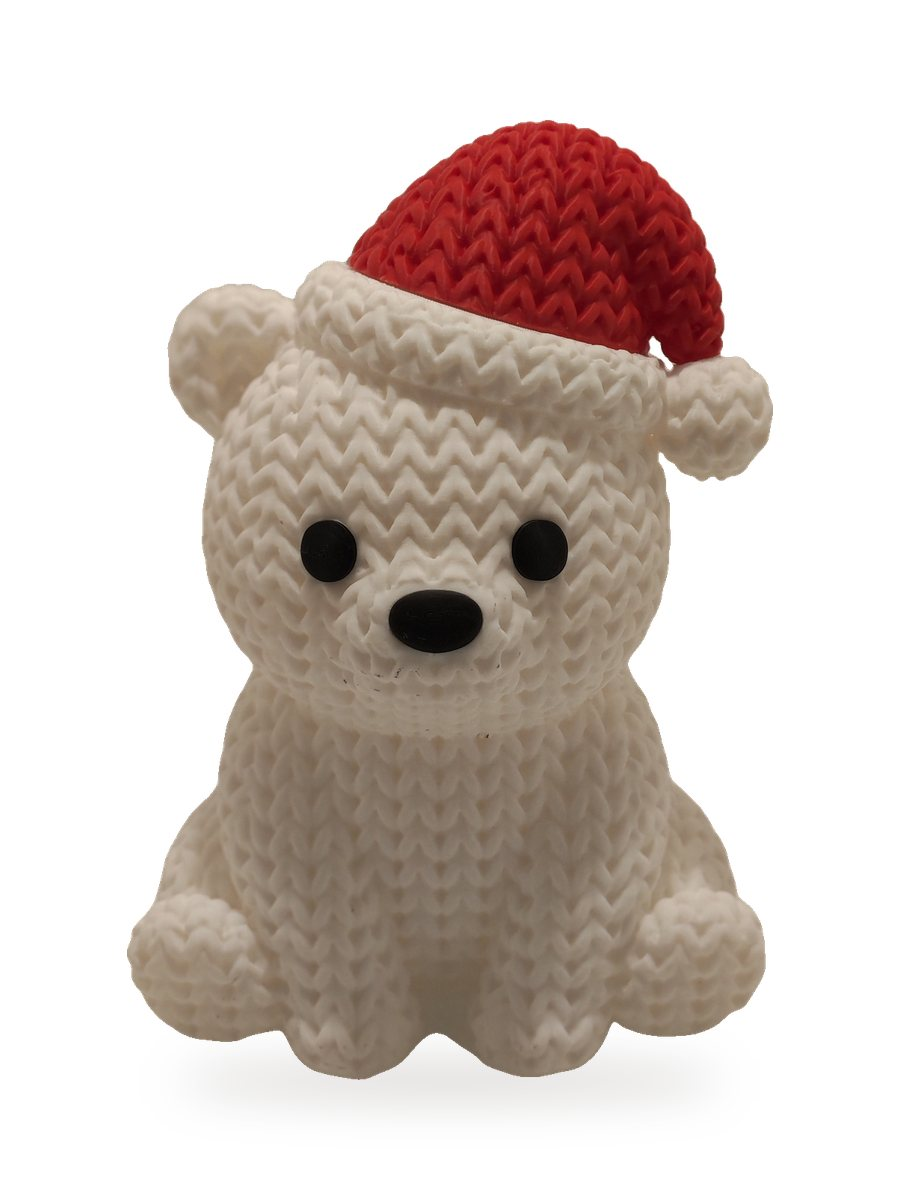
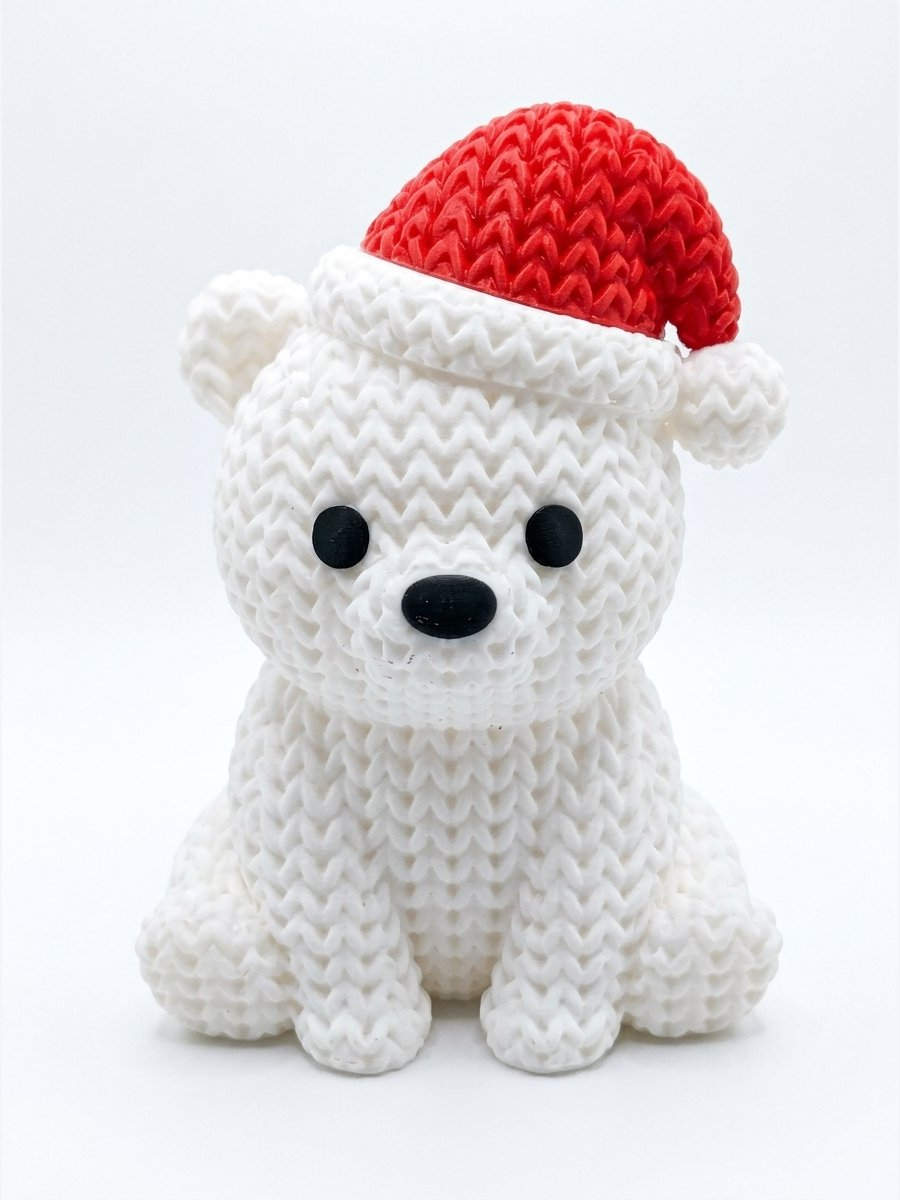
Nouvelles photos : 33 créations, 4 réalisations
Claude-Session: https://claude.ai/code/session_01ErciQ49SFLf8zEqShaibuE

diff --git a/index.html b/index.html
@@ -191,28 +191,43 @@ footer{text-align:center;padding:34px 20px;color:var(--gris);font-size:14px}
    cat   : "noel" ou "maison" ; badge : texte facultatif */
 const OBJETS = [
  {nom:"Sapins de Noël spirale", cat:"noel", desc:"Des sapins tout en spirale, élégants et modernes, avec leur étoile dorée.", photo:"sapins-spirale.jpg", badge:"Coup de cœur"},
- {nom:"Sapins de Noël feuillus", cat:"noel", desc:"Un duo de sapins aux branches ondulées, coiffés d'une étoile dorée.", photo:"sapins-feuillage.jpg"},
+ {nom:"Sapins de Noël feuillus", cat:"noel", desc:"Un duo de sapins aux branches ondulées, coiffés d'une étoile dorée.", photo:"sapins-feuillus.jpg"},
  {nom:"Bonhomme de neige", cat:"noel", desc:"Un grand bonhomme de neige strié, avec chapeau haut-de-forme et écharpe.", photo:"bonhomme-de-neige.jpg"},
- {nom:"Ours tricoté", cat:"noel", desc:"Un ourson à l'effet tricot étonnant, avec son bonnet de Noël.", photo:"ours-tricote.jpg"},
- {nom:"Casse-noisette", cat:"noel", desc:"Le soldat casse-noisette en version épurée, en bleu, blanc et or.", photo:"casse-noisette-simpliste.jpg"},
+ {nom:"Casse-noisette", cat:"noel", desc:"Le soldat casse-noisette en bleu, blanc et or.", photo:"casse-noisette.jpg"},
  {nom:"Trio de casse-noisettes", cat:"noel", desc:"Trois petits soldats, en rouge, blanc et vert.", photo:"casse-noisettes-trio.jpg"},
- {nom:"Duo de cerfs", cat:"noel", desc:"Deux cerfs majestueux au relief strié, un grand et un petit.", photo:"cerfs-grand-duo.jpg"},
- {nom:"Duo de rennes design", cat:"noel", desc:"Deux têtes de renne graphiques et arrondies.", photo:"cerfs-design.jpg"},
- {nom:"Boule pull de Noël", cat:"noel", desc:"Une boule en forme de pull de Noël, personnalisée avec un prénom.", photo:"boule-pull.jpg", badge:"Personnalisable"},
- {nom:"Boule flocon tournante", cat:"noel", desc:"Une boule ajourée dont le flocon central tourne, avec le prénom de votre choix.", photo:"boule-flocon-prenom.jpg", badge:"Personnalisable"},
+ {nom:"Duo de cerfs", cat:"noel", desc:"Deux cerfs majestueux au relief strié, un grand et un petit.", photo:"duo-de-cerfs.jpg"},
+ {nom:"Duo de rennes design", cat:"noel", desc:"Deux rennes graphiques et arrondis.", photo:"duo-rennes-design.jpg"},
+ {nom:"Père Noël tricoté", cat:"noel", desc:"Un Père Noël tout doux à l'effet tricot.", photo:"pere-noel-tricote.jpg", badge:"Coup de cœur"},
+ {nom:"Bonhomme de neige tricoté", cat:"noel", desc:"Un petit bonhomme de neige en bonnet et écharpe, effet tricot.", photo:"bonhomme-tricote.jpg"},
+ {nom:"Renne tricoté", cat:"noel", desc:"Un renne au nez rouge, effet tricot.", photo:"renne-tricote.jpg"},
+ {nom:"Pain d'épice tricoté", cat:"noel", desc:"Un bonhomme pain d'épice souriant, effet tricot.", photo:"pain-epice-tricote.jpg"},
+ {nom:"Ours tricoté", cat:"noel", desc:"Un ourson blanc avec son bonnet de Noël, effet tricot.", photo:"ours-tricote.jpg"},
+ {nom:"Sapin tricoté", cat:"noel", desc:"Un sapin vert à l'effet tricot, avec son étoile.", photo:"sapin-tricote.jpg"},
+ {nom:"Renne au nez rouge", cat:"noel", desc:"Un renne assis avec son écharpe et son nez rouge.", photo:"renne-nez-rouge.jpg"},
+ {nom:"Calendrier de l'Avent", cat:"noel", desc:"Une cheminée de Noël avec ses petits tiroirs à surprises.", photo:"calendrier-avent.jpg"},
+ {nom:"Chapeau de Père Noël", cat:"noel", desc:"Un bonnet de Père Noël décoratif, avec son pompon.", photo:"chapeau-pere-noel.jpg"},
+ {nom:"Étoile de sapin", cat:"noel", desc:"Une grande étoile dorée pour la cime du sapin.", photo:"etoile-sapin.jpg"},
+ {nom:"Étoiles (lot de 3)", cat:"noel", desc:"Trois étoiles emboîtées à suspendre.", photo:"etoiles-lot-de-3.jpg"},
+ {nom:"Boule pull de Noël", cat:"noel", desc:"Une boule en forme de pull de Noël, avec un prénom.", photo:"boule-pull.jpg", badge:"Personnalisable"},
+ {nom:"Boule flocon tournante", cat:"noel", desc:"Une boule ajourée dont le flocon central tourne, avec un prénom.", photo:"boule-flocon-prenom.jpg", badge:"Personnalisable"},
  {nom:"Boule chat", cat:"noel", desc:"Une tête de chat aux flocons de neige, avec le petit nom de votre choix.", photo:"boule-chat.jpg", badge:"Personnalisable"},
- {nom:"Boule patte", cat:"noel", desc:"Une patte décorée de flocons, avec le nom de votre chien ou de votre chat.", photo:"boule-patte.jpg", badge:"Personnalisable"},
- {nom:"Boule couronne photo", cat:"noel", desc:"Une petite couronne de Noël avec un emplacement pour glisser votre photo.", photo:"boule-photo.jpg"},
- {nom:"Porte-serviettes flocon", cat:"noel", desc:"Un grand flocon de neige pour tenir les serviettes sur la table des fêtes.", photo:"porte-serviettes-flocon.jpg"},
+ {nom:"Boule patte", cat:"noel", desc:"Une patte décorée de flocons, avec le nom de votre animal.", photo:"boule-patte.jpg", badge:"Personnalisable"},
+ {nom:"Boule couronne photo", cat:"noel", desc:"Une petite couronne avec un emplacement pour votre photo.", photo:"boule-couronne-photo.jpg"},
+ {nom:"Ronds de serviette de Noël", cat:"noel", desc:"Six ronds de serviette aux motifs de Noël.", photo:"ronds-de-serviette.jpg"},
+ {nom:"Porte-serviettes flocon", cat:"noel", desc:"Un grand flocon de neige pour la table des fêtes.", photo:"porte-serviettes-flocon.jpg"},
  {nom:"Sous-verres flocons", cat:"noel", desc:"Des sous-verres en forme de flocons, avec leur support.", photo:"sous-verres-flocons.jpg"},
- {nom:"Plante sous-verres", cat:"maison", desc:"Une plante monstera dont les feuilles se détachent et deviennent des sous-verres.", photo:"plante-sous-verres.jpg", badge:"Coup de cœur"},
- {nom:"Support de téléphone", cat:"maison", desc:"Un support de téléphone articulé, réglable en inclinaison.", photo:"porte-gsm.jpg"},
- {nom:"Maïs anti-stress", cat:"maison", desc:"Un épi de maïs aux grains articulés à manipuler : addictif !", photo:"mais.jpg"},
- {nom:"Planche anti-stress", cat:"maison", desc:"Boutons, molettes et interrupteurs à manipuler sans fin.", photo:"anti-stress.jpg"}
+ {nom:"Crochets de guirlande", cat:"noel", desc:"Des crochets pour accrocher vos guirlandes lumineuses.", photo:"crochets-guirlande.jpg"},
+ {nom:"Crochet", cat:"maison", desc:"Un crochet pratique à suspendre.", photo:"crochet-orange.jpg"},
+ {nom:"Plante sous-verres", cat:"maison", desc:"Une plante monstera dont les feuilles deviennent des sous-verres.", photo:"plante-sous-verres.jpg", badge:"Coup de cœur"},
+ {nom:"Organisateur de bureau", cat:"maison", desc:"Un set de rangement pour le bureau, en vert sauge.", photo:"organisateur-bureau.jpg"},
+ {nom:"Support de téléphone", cat:"maison", desc:"Un support de téléphone réglable en inclinaison.", photo:"support-telephone.jpg"},
+ {nom:"Maïs anti-stress", cat:"maison", desc:"Un épi de maïs aux grains articulés : addictif !", photo:"mais-anti-stress.jpg"},
+ {nom:"Planche anti-stress", cat:"maison", desc:"Boutons, molettes et interrupteurs à manipuler sans fin.", photo:"planche-anti-stress.jpg"}
 ];
 const EXCEPTION = [
- {nom:"Casse-noisette géant — 88 cm", desc:"Une pièce spectaculaire de près d'un mètre, imprimée sur plusieurs jours.", photo:"casse-noisette-geant.jpg"},
- {nom:"Sapin XXL — 50 cm", desc:"La version géante de notre sapin spirale, à installer dans l'entrée ou le salon.", photo:"sapin-xxl.jpg"},
+ {nom:"Casse-noisette géant — 88 cm", desc:"Une pièce spectaculaire de près d'un mètre, imprimée sur plusieurs jours.", photo:"casse-noisette-geant-88cm.jpg"},
+ {nom:"Gâteau de Noël XXL", desc:"Un gâteau géant à trois étages, décoré de sucres d'orge.", photo:"gateau-xxl.jpg"},
+ {nom:"Étoile de cime géante", desc:"Une étoile de cime surmontée de son petit héros et de son drapeau.", photo:"etoile-cime-mario.jpg"},
  {nom:"Fusée lunaire — 1,80 m", desc:"Notre plus grande pièce à ce jour : 1,80 m de haut, réalisée pour notre famille.", photo:"fusee-tintin.jpg"}
 ];
 /* ======================= */
